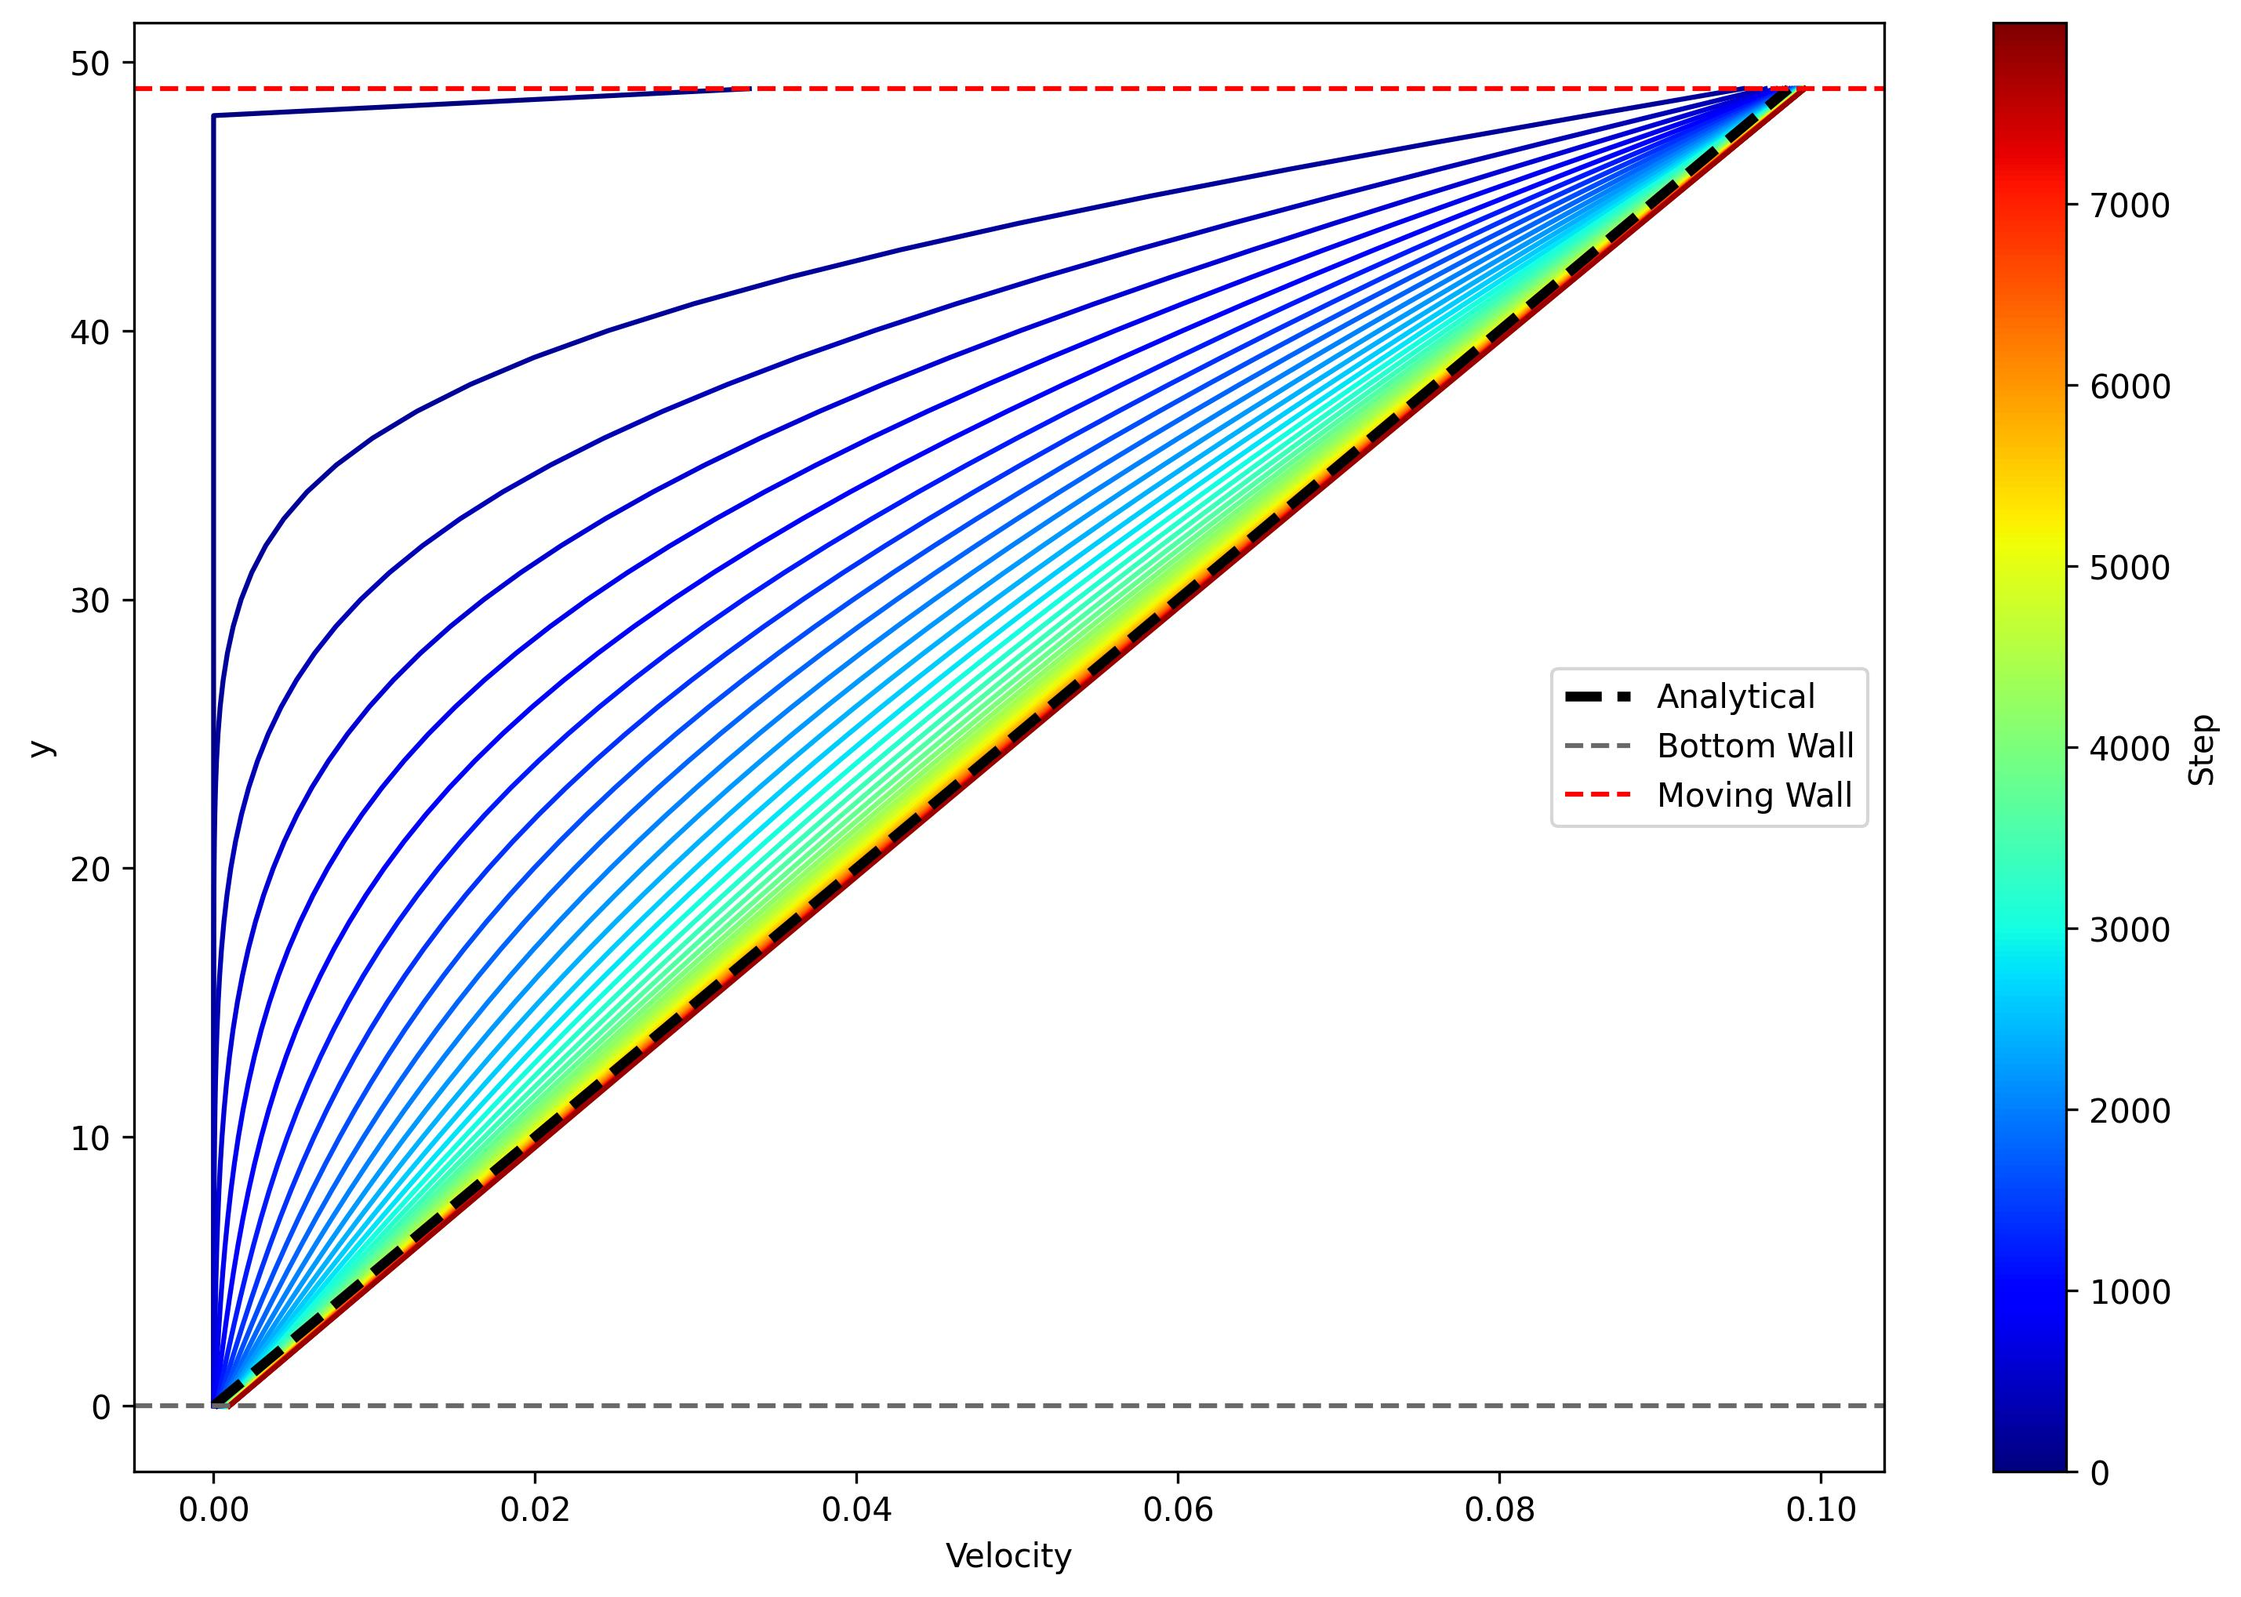
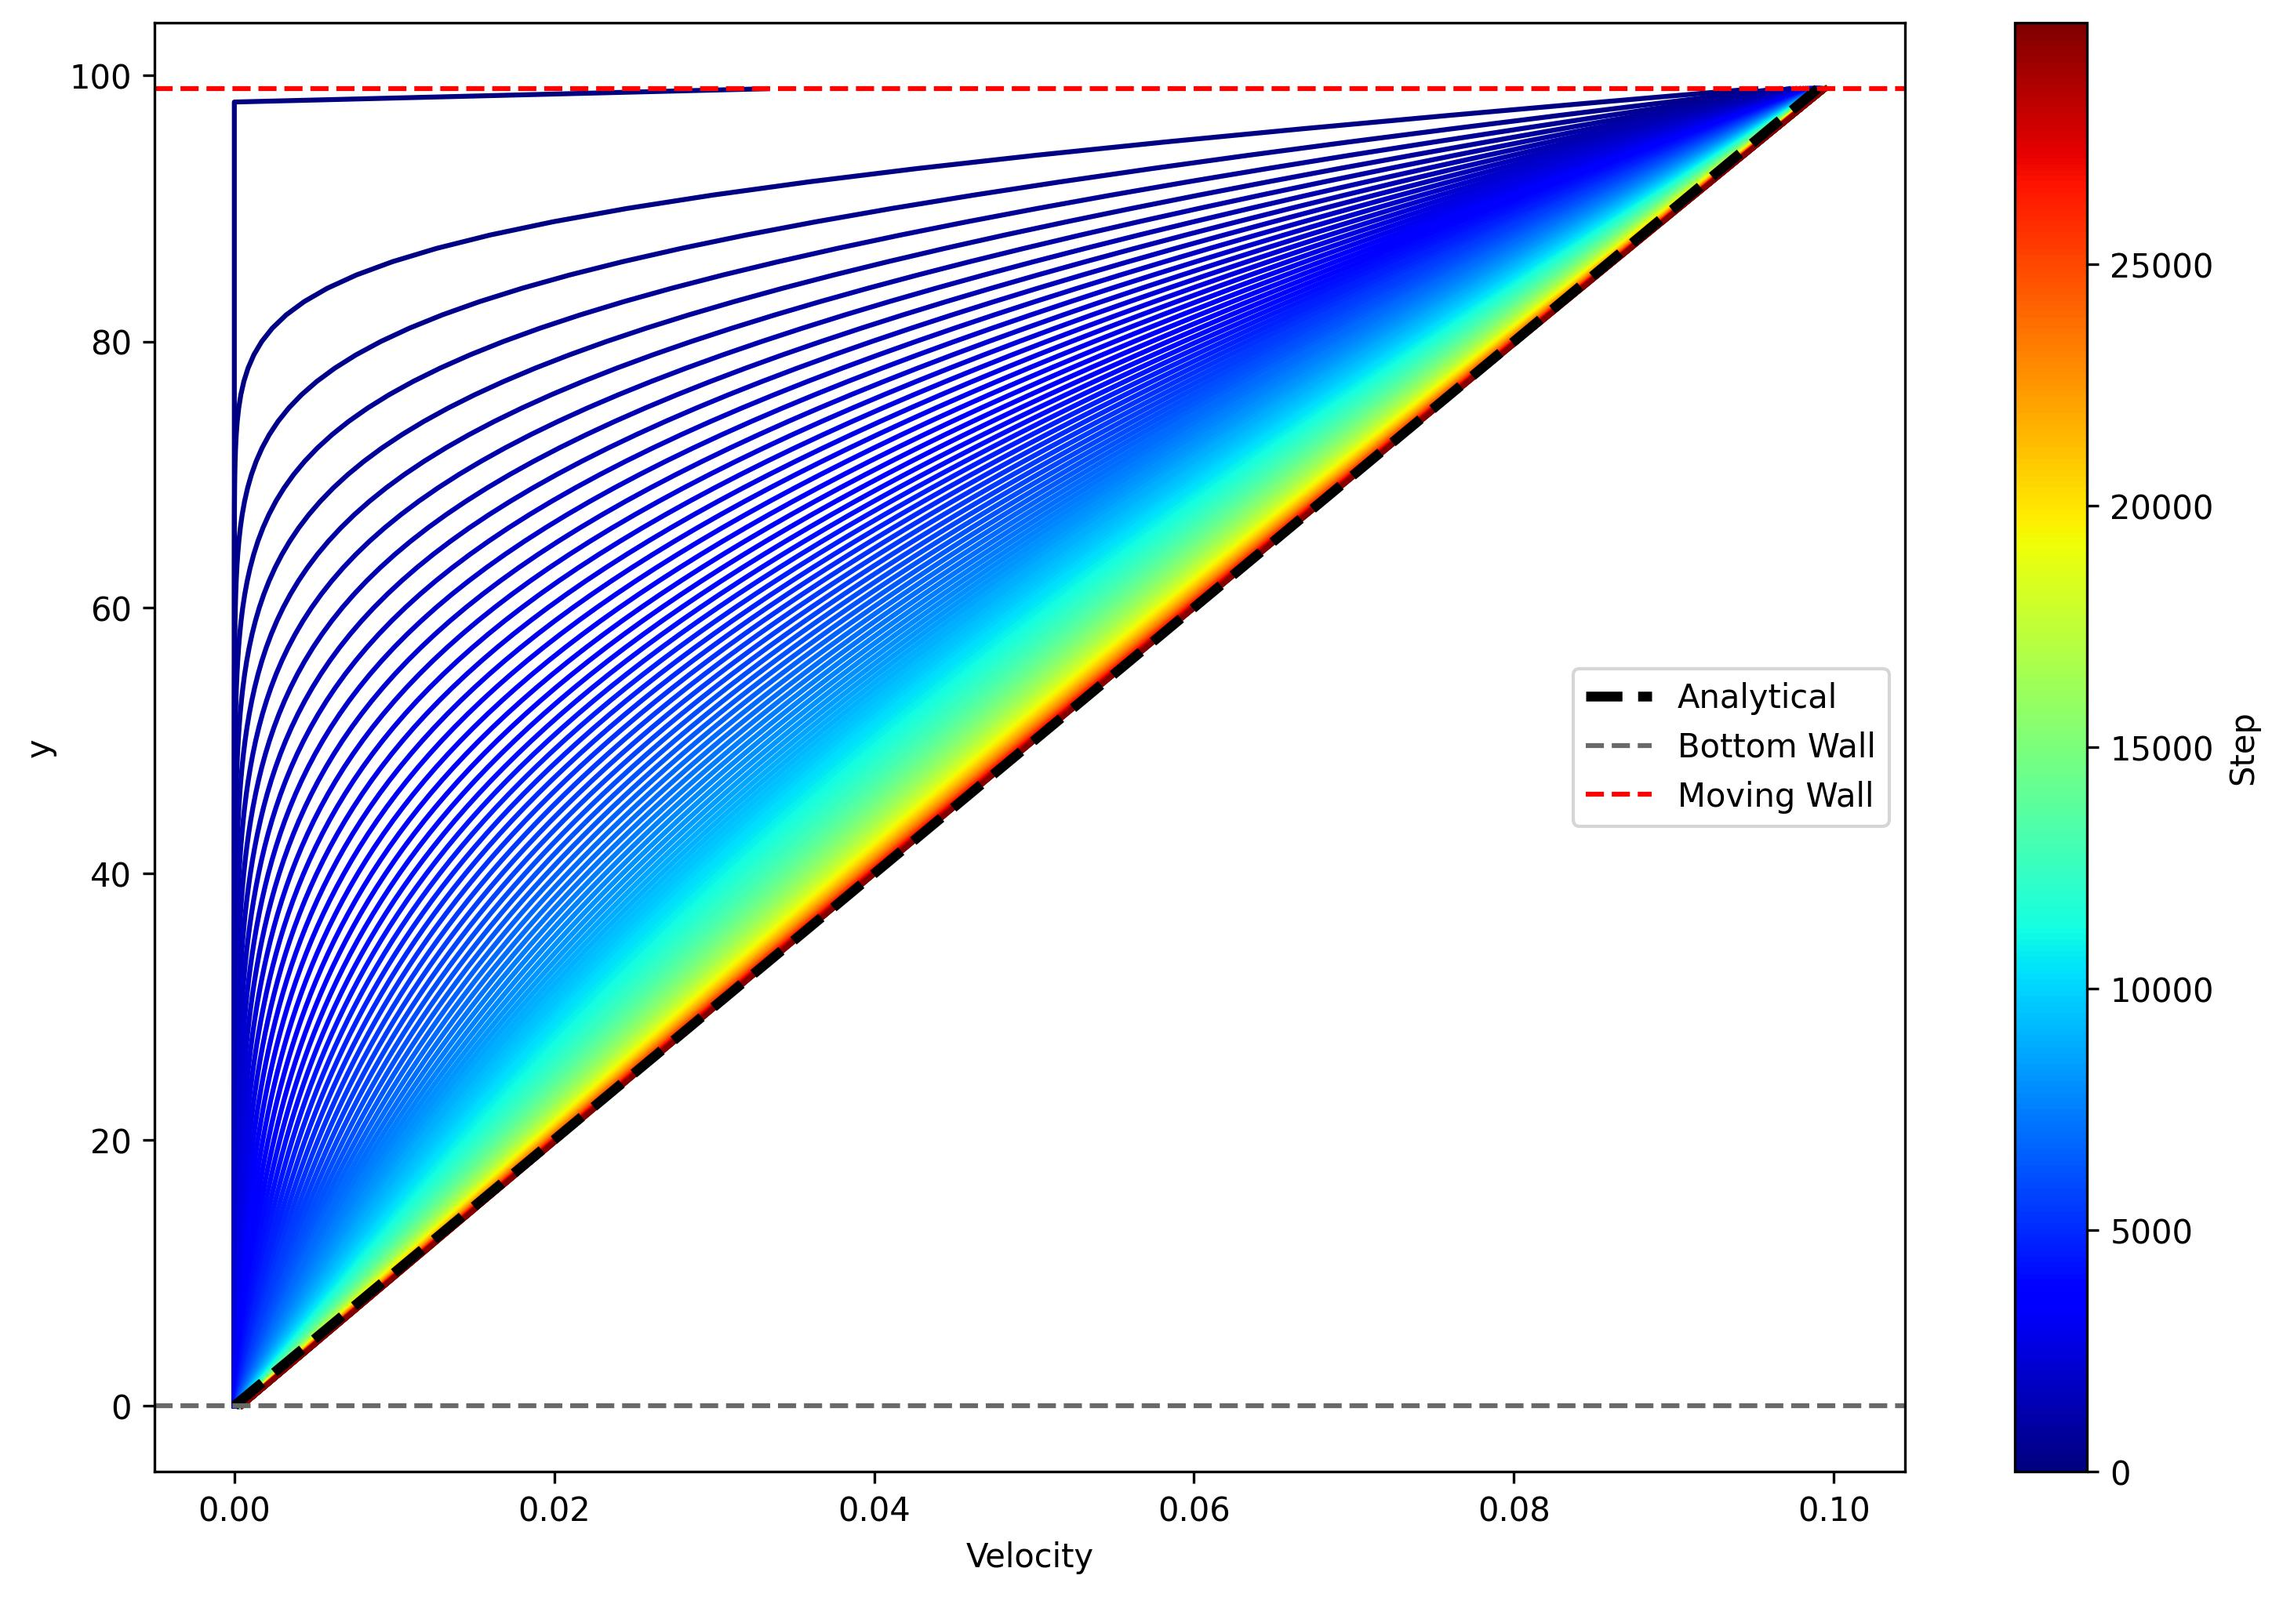
Changes

diff --git a/src/visualisations.py b/src/visualisations.py
@@ -258,17 +258,20 @@ def visualise_velocity_vectors_couette_poiseuille(velocity, time_step, wall_velo
     grid_size_x = velocity.shape[1]
     y_a = np.arange(0, grid_size_y)
     vel_x = velocity[0][int(grid_size_x / 2), :]
+    plt.figure(figsize=(12, 8))
     if poiseuille:
-        nu = 1 / 3 * (1 / omega - 0.5)
-        delta = 2.0 * epsilon / grid_size_x / nu / 2
+        viscosity = 1 / 3 * (1 / omega - 0.5)
         y_analytical = np.linspace(0, grid_size_y, grid_size_y + 1) + 0.5
-        analytical = (delta * y_analytical * (grid_size_y - y_analytical) / 3)[:-1]
+        analytical = (-0.5 * (-2.0 * epsilon / grid_size_x / viscosity / 3) * y_analytical *
+                      (grid_size_y - y_analytical))[:-1]
     else:
         analytical = y_a/grid_size_y*wall_velocity
 
-    for val, y_coord in zip(vel_x, y_a):
+    # Plot only 1/3 of the vectors
+    for i in range(0, len(vel_x), 3):
+        val, y_coord = vel_x[i], y_a[i]
         origin = [0, y_coord]
-        plt.quiver(*origin, *[val, 0.0], color='royalblue', scale_units='xy', scale=1, headwidth=2)
+        plt.quiver(*origin, val, 0.0, color='royalblue', scale_units='xy', scale=1, headwidth=2)
 
     plt.plot(vel_x, y_a, label='Simulated', c='blue', linestyle=':')
     plt.plot(analytical, y_a, label="Analytical", linestyle='--', color='black')
@@ -315,10 +318,10 @@ def visualise_velocity_evolution_couette_poiseuille(grid_size_x, grid_size_y, wa
         os.makedirs(output_path)
 
     if poiseuille:
-        nu = 1 / 3 * (1 / omega - 0.5)
-        delta = 2.0 * epsilon / grid_size_x / nu / 2
+        viscosity = 1 / 3 * (1 / omega - 0.5)
         y_analytical = np.linspace(0, grid_size_y, grid_size_y + 1) + 0.5
-        analytical = (delta * y_analytical * (grid_size_y - y_analytical) / 3)[:-1]
+        analytical = (-0.5 * (-2.0 * epsilon / grid_size_x / viscosity / 3) * y_analytical *
+                      (grid_size_y - y_analytical))[:-1]
     else:
         analytical = np.arange(0, grid_size_y) / grid_size_y * wall_velocity
 

diff --git a/src/milestones/milestone_5.py b/src/milestones/milestone_5.py
@@ -61,11 +61,11 @@ def main(x, y, omega, num_time_steps, epsilon, density_init=1, test=False):
 
 
 if __name__ == '__main__':
-    x = 50
-    y = 50
+    x = 100
+    y = 100
     epsilon = 0.001  # Amplitude of the perturbation
     omega = 1  # Relaxation parameter
-    num_time_steps = 7000
+    num_time_steps = 45000
     density_init = 1
 
     final_velocity = main(x=x, y=y, num_time_steps=num_time_steps, omega=omega, epsilon=epsilon,

diff --git a/src/milestones/milestone_4.py b/src/milestones/milestone_4.py
@@ -40,10 +40,10 @@ def main(x, y, num_time_steps, wall_velocity, omega, epsilon=0.01):
 
 if __name__ == "__main__":
     x = 100
-    y = 50
+    y = 100
     epsilon = 0.01  # Amplitude of the perturbation
     omega = 1  # Relaxation parameter
     wall_velocity = 0.1
-    num_time_steps = 8000
+    num_time_steps = 30000
 
     main(x=x, y=y, num_time_steps=num_time_steps, omega=omega, wall_velocity=wall_velocity)

diff --git a/tests/test_poiseuille_inlet_outlet.py b/tests/test_poiseuille_inlet_outlet.py
@@ -39,10 +39,10 @@ def test(final_velocity, grid_shape):
 
 if __name__ == '__main__':
     x = 100
-    y = 50
+    y = 100
     epsilon = 0.001  # Amplitude of the perturbation
     omega = 1  # Relaxation parameter
-    num_time_steps = 8000
+    num_time_steps = 45000
     density_init = 1
 
     final_velocity = main(x=x, y=y, num_time_steps=num_time_steps, omega=omega, epsilon=epsilon,

diff --git a/README.md b/README.md
@@ -16,7 +16,29 @@ The different simulations implemented in this repository are:
 
 ## Running Simulations
 
-To run any of these simulations, use the `run.py` script. Here are examples of how to run the Sliding Lid Serial and Parallel simulations:
+To run any of these simulations, use the `run.py` script. 
+
+Instructions how to run the experiments:
+
+```
+-E, '--experiment_name', type=str : The simulation experiment to run. For example (from above) "swd" implies Shear Wave Decay.
+-X, type=int : The different lattice size in the x direction.
+-Y, type=int : The different lattice size in the y direction.
+-T, '--num_time_steps', type=int : The total time steps for which to run the simulation.
+-O, '--omega', type=float : Relaxation Parameter.
+--lx, type=int : The length of the domain in the x direction.
+--ly, type=int : The length of the domain in the y direction.
+--eps, type=float : Amplitude of the perturbation
+-WV, '--wall_velocity', type=float : Velocity of the moving wall.
+-DIPF, '--density_initial_poiseuille', type=float : Initial density for Poiseuille flow.
+-DISWD, '--density_initial_sinus_density', type=float : Initial density for Shear Wave Decay of density.
+-V, '--viscosity', type=float : Viscosity.
+-RN, '--reynolds_number', type=int : Reynolds Number.
+-NP, '--num_processes', type=int : Total number of processes.
+-NPX, '--num_processes_x', type=int : Number of processes in x direction.
+-NPY, '--num_processes_y', type=int : Number of processes in y direction.
+```
+Here are examples of how to run the Sliding Lid Serial and Parallel simulations:
 
 - Sliding Lid Serial:
 
@@ -43,6 +65,15 @@ Some test cases have been provided to validate the implementations:
 ## Scaling Test
 
 A scaling test for the Sliding Lid parallel simulation is available, which measures and visualizes the MLUPS (Million Lattice Updates Per Second) for different combinations of parameters.
+
+Instructions on how to run the scaling test:
+
+```
+-T, '--total_time_steps', type=int : Total number of time steps.
+-P, '--different_num_processes', type=str : The different number of processes.
+-X, type=str : The different lattice size in the x direction.
+-Y, type=str : The different lattice size in the y direction.
+```
 
 Example command to run the scaling test:
 
